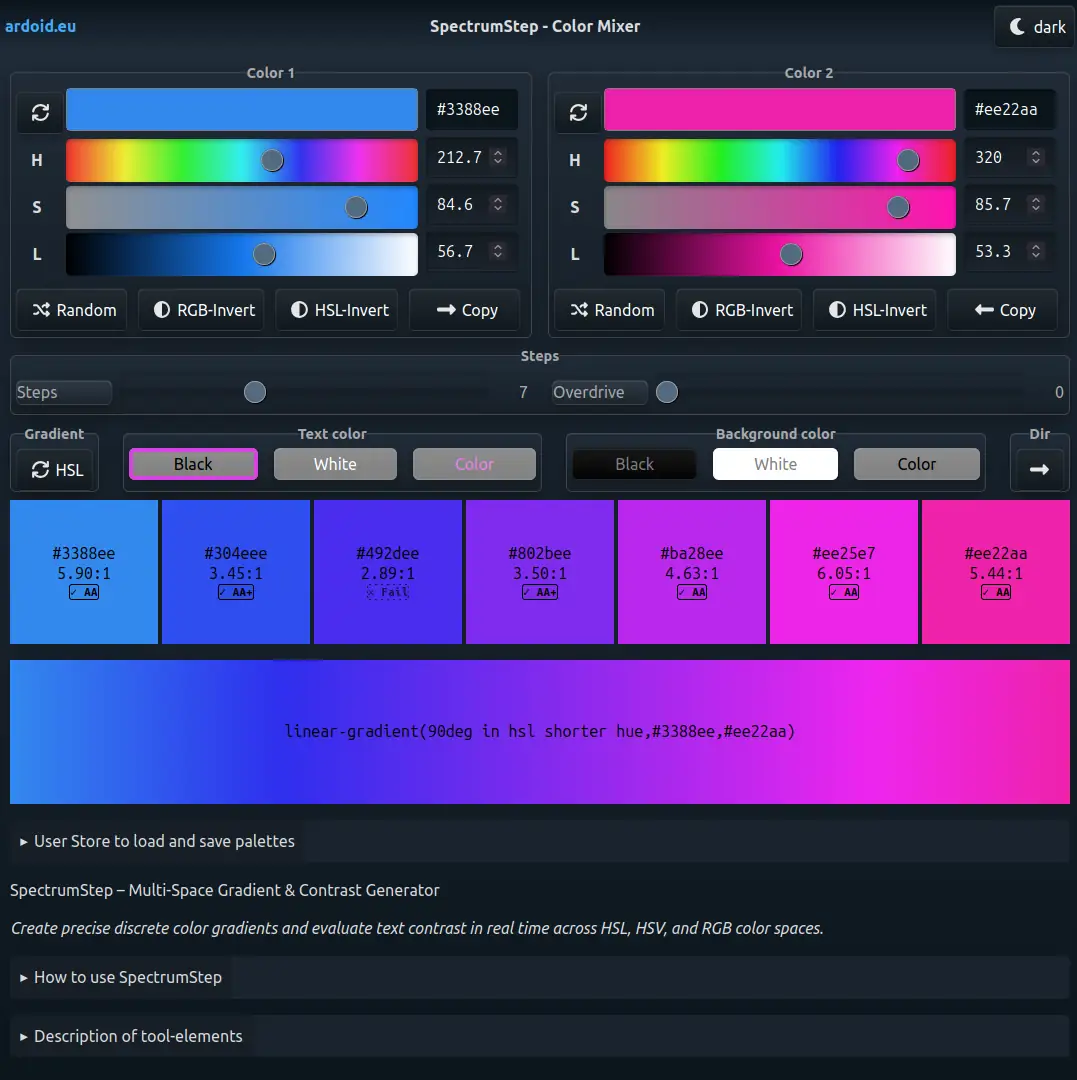
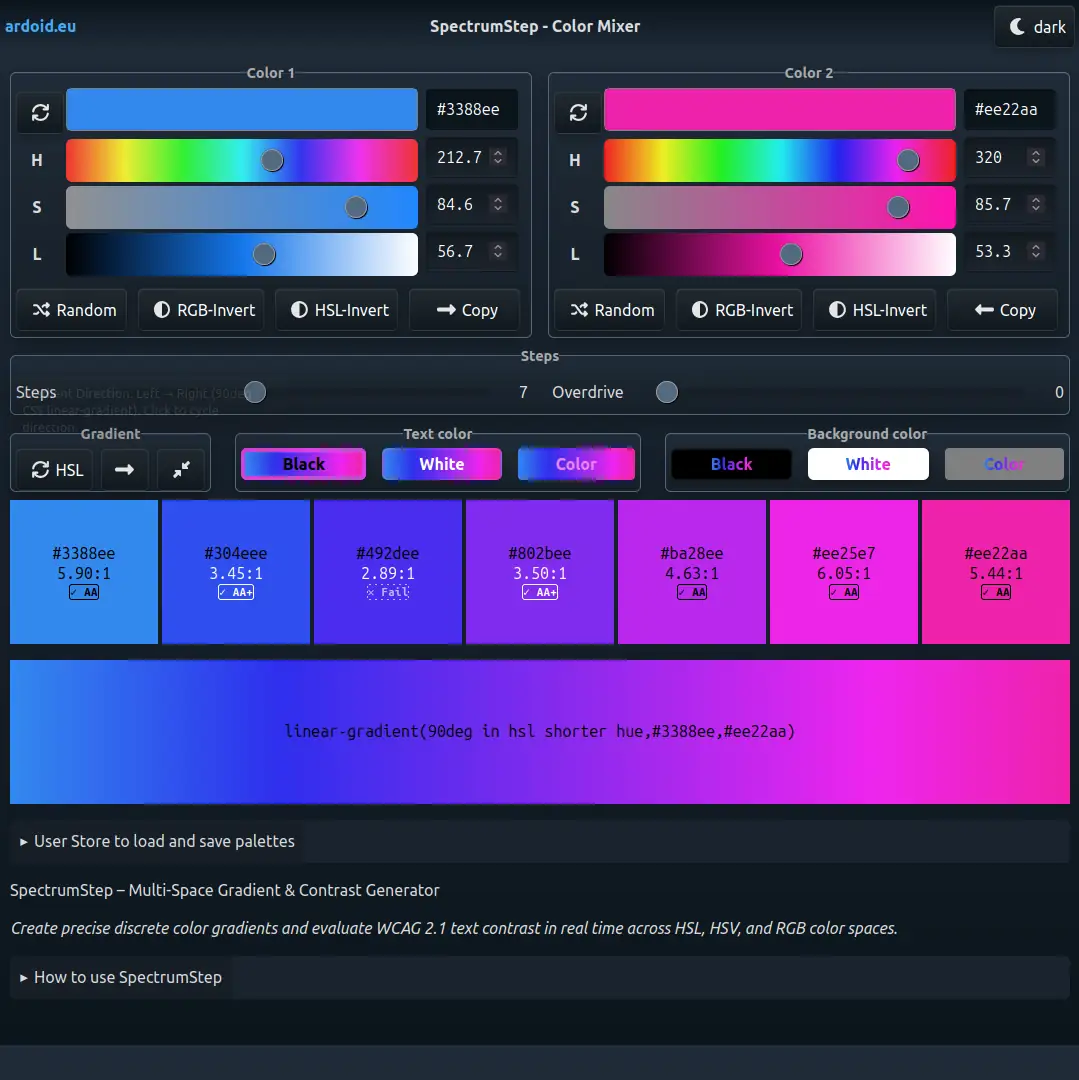
contrast info is optional

diff --git a/index.html b/index.html
@@ -101,6 +101,7 @@
 					<div id="gradient-select"></div>
 					<div id="gradientDirection"></div>
 					<div id="gradientWay"></div>
+					<div id="contrastVisibility"></div>
 				</fieldset>
 				<fieldset class="flex-scatter-childs" id="textContrast">
 					<legend>Text color</legend>
@@ -147,7 +148,7 @@
 					<p><strong>1. Configure Endpoint Colors:</strong> Switch each endpoint independently between cylindrical <strong>HSL</strong>, additive <strong>RGB</strong>, and cylindrical <strong>HSV</strong> color models. Adjust live-rendered channel sliders or enter exact numeric and hexadecimal values.</p>
 					<p><strong>2. Transform & Sync Endpoints:</strong> Generate random 24-bit sRGB colors, compute the sRGB complement (<em>RGB-Invert</em>), reflect lightness while preserving hue and saturation (<em>HSL-Invert</em>), or clone colors across endpoints (<em>Copy</em>).</p>
 					<p><strong>3. Set Steps & Overdrive:</strong> Define the number of equidistant interpolation steps (2–16) and optionally extrapolate steps beyond both base colors using <em>Overdrive</em> (0–16).</p>
-					<p><strong>4. Interpolation Space, Direction & Hue Path:</strong> Choose the mixing space (HSL, RGB, HSV), spatial direction (Right, Down, Left, Up), and hue arc (<em>shorter hue</em> vs. <em>longer hue</em>). Evaluate legibility against static foreground text or static background colors.</p>
+					<p><strong>4. Interpolation Space, Direction & Hue Path:</strong> Choose the mixing space (HSL, RGB, HSV), spatial direction (Right, Down, Left, Up), hue arc (<em>shorter hue</em> vs. <em>longer hue</em>), and toggle contrast info visibility. Evaluate legibility against static foreground text or static background colors.</p>
 					<p><strong>5. Export & Copy:</strong> Click any swatch in the discrete palette to copy its <code>#RRGGBB</code> hex code, or click the continuous gradient bar to copy the ready-to-use CSS <code>linear-gradient(...)</code> declaration.</p>
 					<h3>What are HSL and HSV?</h3>
 					<p><strong>HSL</strong> (Hue, Saturation, Lightness) and <strong>HSV / HSB</strong> (Hue, Saturation, Value / Brightness) are cylindrical-coordinate representations of the sRGB color model. <strong>Hue</strong> specifies the angular position on the color wheel (0°–360°), <strong>Saturation</strong> controls chromatic purity (0%–100%), <strong>Lightness</strong> spans from black (0%) through pure hue (50%) to white (100%), and <strong>Value</strong> controls illumination intensity from black (0%) to full brightness (100%). See <a href="https://en.wikipedia.org/wiki/HSL_and_HSV">Wikipedia: HSL and HSV</a>.</p>
@@ -161,10 +162,11 @@
 						<li><strong>Gradient Space (HSL, RGB, HSV):</strong> Determines the coordinate system used for linear interpolation between endpoints. Endpoint colors are preserved without rounding loss.</li>
 						<li><strong>Gradient Direction:</strong> Orbits the palette layout and CSS gradient vector across all four cardinal directions (Right <code>90deg</code>, Down <code>180deg</code>, Left, and Up).</li>
 						<li><strong>Hue Interpolation Way (Shorter / Longer):</strong> In cylindrical spaces (HSL/HSV), <em>shorter</em> interpolates along the minor arc (<code>|ΔH| ≤ 180°</code>, CSS <code>in hsl shorter hue</code>), whereas <em>longer</em> traverses the major arc (<code>|ΔH| ≥ 180°</code>, CSS <code>in hsl longer hue</code>) across the full spectrum.</li>
+						<li><strong>Contrast Info Visibility (Show / Hide):</strong> Toggles the display of WCAG contrast ratios and compliance badges on the palette swatches, allowing a distraction-free view showing only the <code>#RRGGBB</code> hex values.</li>
 						<li><strong>Text Color & Background Color Contrast Modes:</strong> Test either a fixed foreground text color (Black, White, or custom Color) over your generated background swatches, or apply the generated palette to text over a fixed background surface.</li>
 						<li><strong>WCAG 2.1 Contrast Ratio & Badges:</strong> Computes relative luminance and contrast ratio <code>(L1 + 0.05) / (L2 + 0.05)</code> for every step, displaying real-time compliance badges: <strong>AAA</strong> (≥ 7:1), <strong>AA</strong> (≥ 4.5:1), <strong>AA+</strong> (≥ 3:1 for large text), or <strong>Fail</strong> (&lt; 3:1).</li>
 						<li><strong>One-Click Clipboard Export:</strong> Click any swatch to copy its HEX code or click the continuous preview bar to copy the CSS <code>linear-gradient</code> snippet, confirmed with an instant toast notification.</li>
-						<li><strong>Local User Store:</strong> Save and load complete named palette states (endpoints, color spaces, steps, overdrive, direction, hue arc, contrast settings, and theme) in browser <code>localStorage</code> without cookies.</li>
+						<li><strong>Local User Store:</strong> Save and load complete named palette states (endpoints, color spaces, steps, overdrive, direction, hue arc, contrast visibility, contrast settings, and theme) in browser <code>localStorage</code> without cookies.</li>
 					</ul>
 				</div>
 			</details>

diff --git a/js/spectrumstep.js b/js/spectrumstep.js
@@ -115,6 +115,7 @@ var textColorSelect = undefined;
 var backColorSelect = undefined;
 var gradientDirectionSwitch = undefined;
 var gradientWaySwitch = undefined;
+var contrastVisibilitySwitch = undefined;
 /** initialisiere Anfangsfarben */
 function calcform_cmx_init() {
 	themeSwitch = new ButtonSwitch(
@@ -176,6 +177,15 @@ function calcform_cmx_init() {
 			tooltips: {
 				shorter: "Hue Path: Shorter arc (|ΔH| ≤ 180°, CSS 'in hsl shorter hue'). Interpolates along the direct path on the color wheel.",
 				longer: "Hue Path: Longer arc (|ΔH| ≥ 180°, CSS 'in hsl longer hue'). Interpolates around the far side of the color wheel."
+			}
+		});
+	contrastVisibilitySwitch = new ButtonSwitch(
+		document.getElementById('contrastVisibility'),
+		['show','hide'], ['assets/icons/eye-solid-full.svg','assets/icons/eye-slash-solid-full.svg'],undefined, () => calcform_cmx_dyna(), {
+			showText: false,
+			tooltips: {
+				show: 'Hide contrast info',
+				hide: 'Show contrast info'
 			}
 		});
 	textColorSelect = new ButtonSelect(
@@ -360,6 +370,7 @@ function calcform_cmx_dyna(textColor, backColor) {
 	const gradientMode = gradientSwitch.value;
 	const gradientDirection = gradientDirectionSwitch.value;
 	const gradientWay = gradientWaySwitch.value;
+	const showContrast = contrastVisibilitySwitch.value !== 'hide';
 	if (textColor) {
 		_textColor = textColor
 		_backColor = undefined
@@ -377,13 +388,17 @@ function calcform_cmx_dyna(textColor, backColor) {
 	if (gradientDirection==='left'||gradientDirection==='up')colArr.reverse()
 	var html = `<div class="color-palette-${gradientDirection}">`
 	for (var rowIx = 0; rowIx < colArr.length; rowIx++) {
-		const textRgb = _textColor ? hexToRgb(_textColor) : hexToRgb(colArr[rowIx])
-		const backRgb = _textColor ? hexToRgb(colArr[rowIx]) : hexToRgb(_backColor)
-		const contrastInfo = getContrastInfo(textRgb, backRgb)
-		const badgeHtml = '<span class="wcag-badge ' + contrastInfo.badgeClass + '" data-tooltip="' + contrastInfo.badgeTitle + ' (Contrast ratio ' + contrastInfo.ratioText + ')">' + contrastInfo.badge + '</span>';
-		const infoHtml = '<span class="contrast-info" style="color:' + contrastInfo.infoColor + '">' + contrastInfo.ratioText + '<br/>' + badgeHtml + '</span>';
-		if (_backColor==undefined) html += '<div class="color-step" onclick="copyColorStep(\'' + colArr[rowIx] + '\', this)" data-tooltip="Click to copy HEX color ' + colArr[rowIx] + ' to clipboard" style="background-color:' + colArr[rowIx] + ';color:'+_textColor+'"><span>' + colArr[rowIx] + '<br/>'+infoHtml+'</span></div>';
-		if (_textColor==undefined) html += '<div class="color-step" onclick="copyColorStep(\'' + colArr[rowIx] + '\', this)" data-tooltip="Click to copy HEX color ' + colArr[rowIx] + ' to clipboard" style="background-color:' + _backColor + ';color:'+colArr[rowIx]+'"><span>' + colArr[rowIx] + '<br/>'+infoHtml+'</span></div>';
+		let infoBlock = '';
+		if (showContrast) {
+			const textRgb = _textColor ? hexToRgb(_textColor) : hexToRgb(colArr[rowIx])
+			const backRgb = _textColor ? hexToRgb(colArr[rowIx]) : hexToRgb(_backColor)
+			const contrastInfo = getContrastInfo(textRgb, backRgb)
+			const badgeHtml = '<span class="wcag-badge ' + contrastInfo.badgeClass + '" data-tooltip="' + contrastInfo.badgeTitle + ' (Contrast ratio ' + contrastInfo.ratioText + ')">' + contrastInfo.badge + '</span>';
+			const infoHtml = '<span class="contrast-info" style="color:' + contrastInfo.infoColor + '">' + contrastInfo.ratioText + '<br/>' + badgeHtml + '</span>';
+			infoBlock = '<br/>' + infoHtml;
+		}
+		if (_backColor==undefined) html += '<div class="color-step" onclick="copyColorStep(\'' + colArr[rowIx] + '\', this)" data-tooltip="Click to copy HEX color ' + colArr[rowIx] + ' to clipboard" style="background-color:' + colArr[rowIx] + ';color:'+_textColor+'"><span>' + colArr[rowIx] + infoBlock + '</span></div>';
+		if (_textColor==undefined) html += '<div class="color-step" onclick="copyColorStep(\'' + colArr[rowIx] + '\', this)" data-tooltip="Click to copy HEX color ' + colArr[rowIx] + ' to clipboard" style="background-color:' + _backColor + ';color:'+colArr[rowIx]+'"><span>' + colArr[rowIx] + infoBlock + '</span></div>';
 	}
 	html += '</div>'
 	document.getElementById('tab-cmx').innerHTML = html;
@@ -514,6 +529,7 @@ function calcform_cmx_onLoad() {
 	gradientSwitch.setValue(data.gradientMode)
 	gradientDirectionSwitch.setValue(data.gradientDirection)
 	if (data.gradientWay) gradientWaySwitch.setValue(data.gradientWay)
+	if (data.contrastVisibility) contrastVisibilitySwitch.setValue(data.contrastVisibility)
 	themeCare(data.theme);
 	calcform_cmx_dyna();
 }
@@ -529,7 +545,8 @@ function calcform_cmx_onSave() {
 		colMode, 
 		theme:themeSwitch.value,
 		gradientDirection:gradientDirectionSwitch.value,
-		gradientWay:gradientWaySwitch.value
+		gradientWay:gradientWaySwitch.value,
+		contrastVisibility:contrastVisibilitySwitch.value
 	};
 	storage.saveSetting({ data: data });
 }

diff --git a/css/spectrumstep.css b/css/spectrumstep.css
@@ -283,12 +283,17 @@ table.inputs {
 }
 .color-palette-down, .color-palette-up {
 	display: grid;
-	grid-template-rows: repeat(auto-fit, minmax(50px, 1fr));
+	grid-template-rows: repeat(auto-fit, 1fr);
 	gap: 4px;
+}
+.color-palette-down .color-step, .color-palette-up .color-step {
+	min-height: 34px;
+}
+.color-palette-right .color-step, .color-palette-left .color-step {
+	min-height: 144px;
 }
 .color-step {
 	min-width: 0;
-	min-height: 144px;
 	display: flex;
 	align-items: center;
 	justify-content: center;

diff --git a/README.md b/README.md
@@ -12,6 +12,7 @@
 - enhanced accuracy for HSV and HSL mode, no loss of RGB value
 - each color in gradient holds contrast info including WCAG AA / AAA badges (Pass/Fail)
   - contrast info and the gradient rating always be visible
+  - contrast info can be disabled
 - copy function with visual feedback at gradient swatches
 - hue allows 2 gradients, longer and shorter way
 

diff --git a/docs/TODO.md b/docs/TODO.md
@@ -17,6 +17,8 @@
 ## visu
 - mark edge colors as in overdrive it is unvisible, f.e. a frame around base gradient
 - header is cutted at broad width display, it shall be full-width
+- docu as extra tab, not below gradient, there should be nothing
+  - in docu use icons for explain
 
 ## ChatGPT
 - HEX-Werte direkt anklickbar machen - Schnelleres Arbeiten
